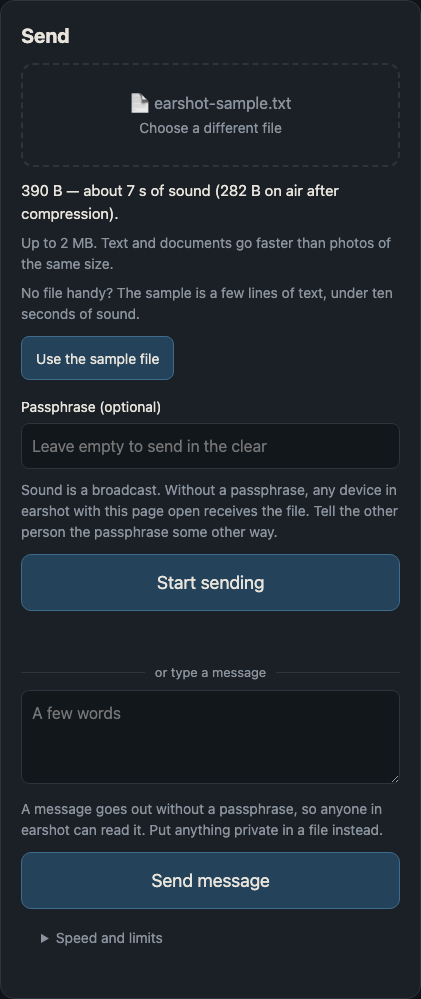
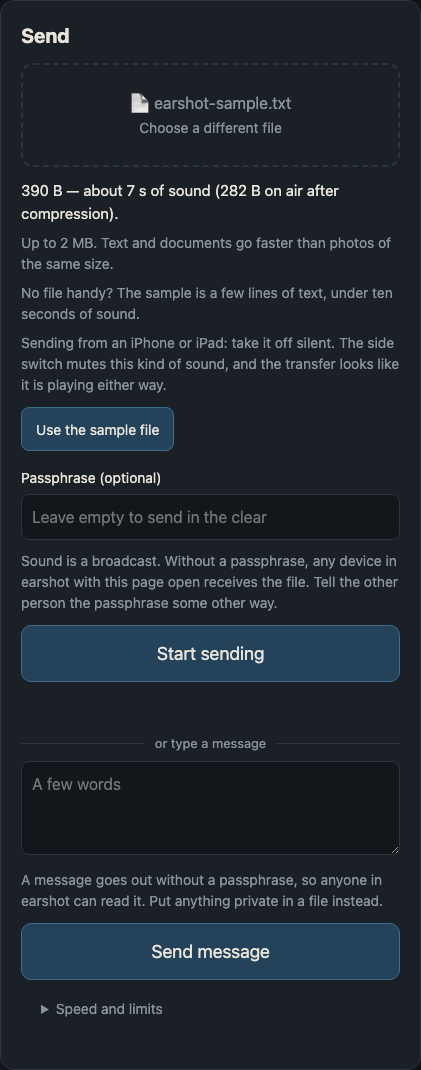
an iPhone could not make a sound: the audio session was never claimed
First over-the-air OFDM transfer worked Mac to iPhone, file and message
both. iPhone to Mac produced no sound at all.

Safari starts a page's audio in an 'ambient' session and ambient audio is
silenced by the ring/silent switch. Web Audio therefore played nothing
while the page cheerfully counted frames, which is the worst shape a
failure can take: everything looks right and the room is quiet. The page
now claims the session it needs - 'playback' while sending, which the
switch does not silence, and 'play-and-record' while listening. earshot
already refuses to do both at once on one device, so the role picks the
type. Safari before 16.4 has no audioSession, so a looping silent audio
element promotes the session instead, which is the older trick.

The engine line under Advanced now reports the session type and the
context state, the send card says to take an iPhone off silent, and
/checks/ gained a test tone - a muted speaker cannot raise an error, so
the only way to find it is to listen.

diff --git a/checks/index.html b/checks/index.html
@@ -26,25 +26,75 @@ allow the microphone. Results appear below the button; screenshot the page when 
 <pre id="bandOut">not run</pre>
 <canvas id="bandCanvas" height="120"></canvas>
 
-<h2>3. Room echo profile</h2>
+<h2>3. Does this device make sound? (iPhone silent switch)</h2>
+<p>Plays two seconds of the same kind of tone a transfer uses. If you hear nothing
+here, the device will send nothing, and the sending page will still look busy.</p>
+<button id="beep">Play a test tone</button>
+<pre id="beepOut">not run</pre>
+
+<h2>4. Room echo profile</h2>
 <p><a href="room.html" style="color:#4cf">Open the room sounder</a> — one chirp out
 loud, shows how long this room keeps ringing. Decides the cyclic prefix.</p>
 
-<h2>4. Loudness (PAPR) check</h2>
+<h2>5. Loudness (PAPR) check</h2>
 <p><a href="papr.html" style="color:#4cf">Open the loudness check</a> — plays an OFDM
 burst and an FSK burst at the same peak, reports the received difference.</p>
 
-<h2>5. 40-minute pipeline soak</h2>
+<h2>6. 40-minute pipeline soak</h2>
 <p><a href="soak.html" style="color:#4cf">Open the soak test</a> — run it once per
 device, screen on, page in front.</p>
 
-<h2>6. Raw capture info</h2>
+<h2>7. Raw capture info</h2>
 <button id="mic">Inspect microphone</button>
 <pre id="micOut">not run</pre>
 
 <script>
 const $ = (id) => document.getElementById(id);
 const MIC = { audio: { echoCancellation: false, noiseSuppression: false, autoGainControl: false, channelCount: 1 } };
+
+$('beep').onclick = async () => {
+  const out = $('beepOut');
+  const lines = [];
+  // Say what the audio is for before making any: on iOS an untyped session
+  // is "ambient", and ambient audio is silenced by the side switch.
+  try {
+    if (navigator.audioSession) { navigator.audioSession.type = 'playback'; lines.push('audioSession.type = playback'); }
+    else lines.push('navigator.audioSession: not supported (Safari before 16.4) - using the silent-audio fallback');
+  } catch (e) { lines.push('audioSession refused: ' + e.message); }
+  if (!navigator.audioSession) {
+    try {
+      const n = 4410, bytes = 44 + n * 2, bb = new ArrayBuffer(bytes), v = new DataView(bb);
+      const tag = (o, t) => { for (let i = 0; i < 4; i++) v.setUint8(o + i, t.charCodeAt(i)); };
+      tag(0, 'RIFF'); v.setUint32(4, bytes - 8, true); tag(8, 'WAVE');
+      tag(12, 'fmt '); v.setUint32(16, 16, true); v.setUint16(20, 1, true); v.setUint16(22, 1, true);
+      v.setUint32(24, 44100, true); v.setUint32(28, 88200, true); v.setUint16(32, 2, true); v.setUint16(34, 16, true);
+      tag(36, 'data'); v.setUint32(40, n * 2, true);
+      const a = new Audio(URL.createObjectURL(new Blob([bb], { type: 'audio/wav' })));
+      a.loop = true; a.setAttribute('playsinline', ''); a.volume = 0.01;
+      await a.play();
+      lines.push('silent audio element started');
+    } catch (e) { lines.push('silent audio element refused: ' + e.message); }
+  }
+  const ctx = new (window.AudioContext || window.webkitAudioContext)();
+  await ctx.resume();
+  lines.push('context ' + ctx.sampleRate + ' Hz, ' + ctx.state);
+  const dur = 2, n = Math.round(dur * ctx.sampleRate);
+  const buf = ctx.createBuffer(1, n, ctx.sampleRate);
+  const ch = buf.getChannelData(0);
+  for (let i = 0; i < n; i++) {
+    // three of the tones a transfer actually uses, so it sounds like one
+    ch[i] = 0.25 * (Math.sin(2 * Math.PI * 2000 * i / ctx.sampleRate)
+                  + Math.sin(2 * Math.PI * 4000 * i / ctx.sampleRate)
+                  + Math.sin(2 * Math.PI * 6000 * i / ctx.sampleRate)) / 3;
+    const w = Math.min(1, i / 2400, (n - i) / 2400);
+    ch[i] *= w;
+  }
+  const src = ctx.createBufferSource();
+  src.buffer = buf; src.connect(ctx.destination); src.start();
+  lines.push('playing 2 s now - do you hear it?');
+  out.textContent = lines.join('\n');
+  setTimeout(async () => { await ctx.close(); out.textContent = lines.join('\n') + '\n\nIf you heard nothing: take the phone off silent and press again.'; }, 2600);
+};
 
 $('rate').onclick = async () => {
   const out = [];

diff --git a/earshot.js b/earshot.js
@@ -77,13 +77,63 @@
   }
 
   let ctx = null;
-  async function ensureCtx() {
+  // On iOS a page's audio starts in an "ambient" session, and ambient audio
+  // is silenced by the ring/silent switch. Web Audio then produces nothing
+  // at all: the transfer plays perfectly and the room hears silence. Saying
+  // what the audio is for moves it out of ambient. 'playback' is the one
+  // that survives the switch; 'play-and-record' is what the microphone
+  // needs. earshot never does both at once on one device, so the role picks
+  // the type.
+  let sessionType = null;
+  function claimAudio(role) {
+    const want = role === 'listen' ? 'play-and-record' : 'playback';
+    try {
+      if (navigator.audioSession) { navigator.audioSession.type = want; sessionType = want; return; }
+    } catch (e) { /* fall through to the older trick */ }
+    sessionType = null;
+    // Safari before 16.4 has no audioSession. An <audio> element does play
+    // through the silent switch, and starting one promotes the session so
+    // Web Audio is heard too. It must start inside the user's gesture.
+    if (role !== 'listen') unmute();
+  }
+
+  // A tenth of a second of silence, as a real WAV. An <audio> element needs
+  // actual samples: a zero-length data chunk ends immediately and never
+  // loops, which is the whole point here.
+  function silentWavUrl() {
+    const n = 4410, bytes = 44 + n * 2;
+    const b = new ArrayBuffer(bytes), v = new DataView(b);
+    const tag = (o, t) => { for (let i = 0; i < 4; i++) v.setUint8(o + i, t.charCodeAt(i)); };
+    tag(0, 'RIFF'); v.setUint32(4, bytes - 8, true); tag(8, 'WAVE');
+    tag(12, 'fmt '); v.setUint32(16, 16, true); v.setUint16(20, 1, true); v.setUint16(22, 1, true);
+    v.setUint32(24, 44100, true); v.setUint32(28, 88200, true); v.setUint16(32, 2, true); v.setUint16(34, 16, true);
+    tag(36, 'data'); v.setUint32(40, n * 2, true);
+    return URL.createObjectURL(new Blob([b], { type: 'audio/wav' }));
+  }
+
+  let unmuter = null;
+  function unmute() {
+    try {
+      if (!unmuter) {
+        unmuter = new Audio(silentWavUrl());
+        unmuter.loop = true;
+        unmuter.setAttribute('playsinline', '');
+        unmuter.volume = 0.01;
+      }
+      const p = unmuter.play();
+      if (p && p.catch) p.catch(() => {});
+    } catch (e) { /* nothing more to try */ }
+  }
+
+  async function ensureCtx(role) {
+    claimAudio(role);
     if (!ctx) {
       const AC = window.AudioContext || window.webkitAudioContext;
       try { ctx = new AC({ sampleRate: FS }); } catch (e) { ctx = new AC(); }
     }
     if (ctx.state !== 'running') await ctx.resume();
-    ui.engineInfo.textContent = `audio ${ctx.sampleRate} Hz` + (ctx.sampleRate !== FS ? ` (resampling to ${FS})` : '');
+    ui.engineInfo.textContent = `audio ${ctx.sampleRate} Hz` + (ctx.sampleRate !== FS ? ` (resampling to ${FS})` : '')
+      + ` | session ${sessionType || 'not settable on this browser'} | ${ctx.state}`;
     return ctx;
   }
 
@@ -231,7 +281,7 @@
     sendBusy(true);
     say(ui.txStatus, 'Getting the file ready…');
     try {
-      const c = await ensureCtx();
+      const c = await ensureCtx('send');
       const bytes = new Uint8Array(await tx.file.arrayBuffer());
       const prep = await Air.prepare(bytes, tx.file.name, pass ? { passphrase: pass } : undefined);
       tx.sender = new Air.Sender(prep);
@@ -589,7 +639,7 @@
         e.name = 'InsecureContext';
         throw e;
       }
-      const c = await ensureCtx();
+      const c = await ensureCtx('listen');
       // Keep a file that has arrived but is still locked. Mistyping a
       // passphrase and pressing Listen again is the natural recovery, and
       // it used to destroy the bytes: the sender then had to send the whole

diff --git a/index.html b/index.html
@@ -119,6 +119,8 @@
     <div class="fileinfo" id="fileInfo"></div>
     <p class="hint">Up to 2 MB. Text and documents go faster than photos of the same size.</p>
     <p class="hint">No file handy? The sample is a few lines of text, under ten seconds of sound.</p>
+    <p class="hint">Sending from an iPhone or iPad: take it off silent. The side switch
+    mutes this kind of sound, and the transfer looks like it is playing either way.</p>
     <div class="row"><button class="small" id="sample">Use the sample file</button></div>
 
     <label class="fieldLabel" for="txPass">Passphrase (optional)</label>

diff --git a/CHANGELOG.md b/CHANGELOG.md
@@ -15,6 +15,22 @@ between two physical devices. Everything below it is gated and green.
   text** to send a typed message (shown on the receiver's screen), and a
   **Speed and limits** table computed from the frame format.
 
+## 0.9.3 — 2026-08-29
+
+First real transfer through the air with the OFDM engine: a Mac sent a file
+and a message to an iPhone, both arrived. The reverse direction produced no
+sound at all, which turned out to be an iOS rule the page never obeyed.
+
+- **An iPhone or iPad now actually plays.** Safari starts a page's audio in an
+  "ambient" session, and ambient audio is silenced by the ring/silent switch:
+  Web Audio produced nothing while the page counted frames as if it were
+  sending. The page now says what its audio is for — `playback` when sending,
+  which survives the switch, `play-and-record` when listening. Older Safari
+  has no such setting, so a silent looping audio element promotes the session
+  instead. The engine line under **Advanced** reports which was used.
+- The send card says to take an iPhone off silent, and `/checks/` has a test
+  tone, because no error can report a muted speaker.
+
 ## 0.9.2 — 2026-08-29
 
 An adversarial pass over the 0.9.1 fixes: six agents attacking the build, every
